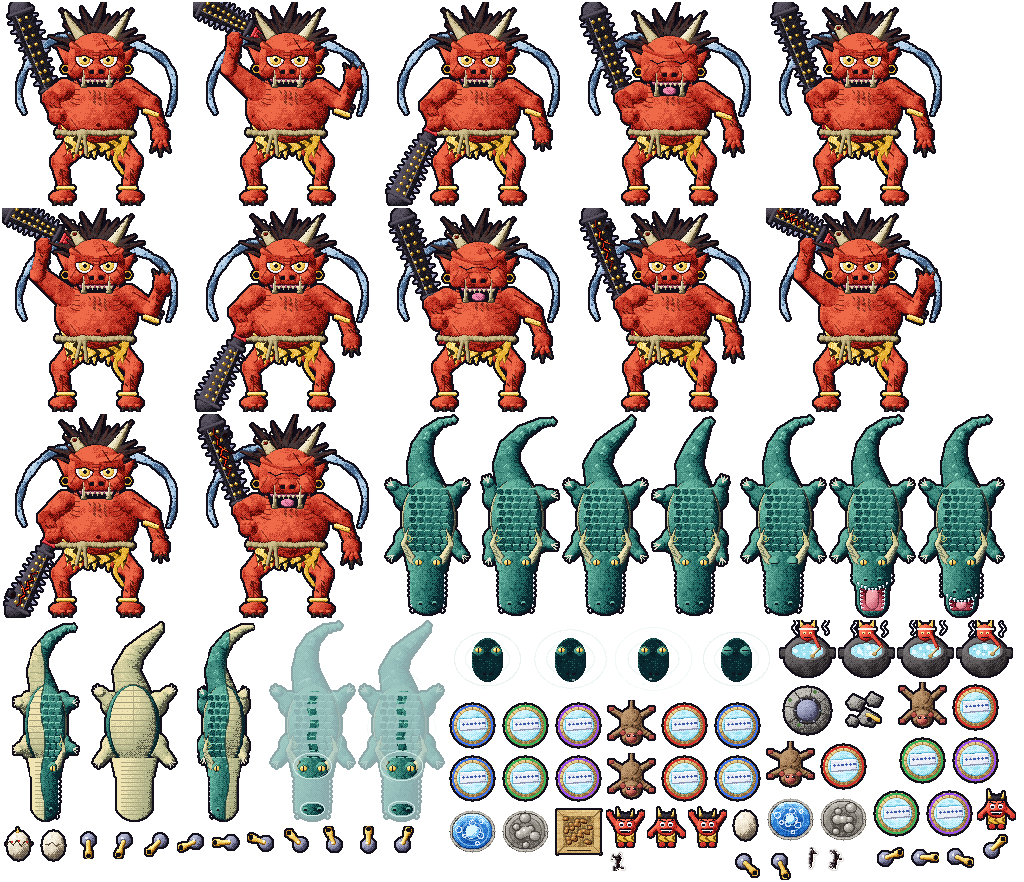
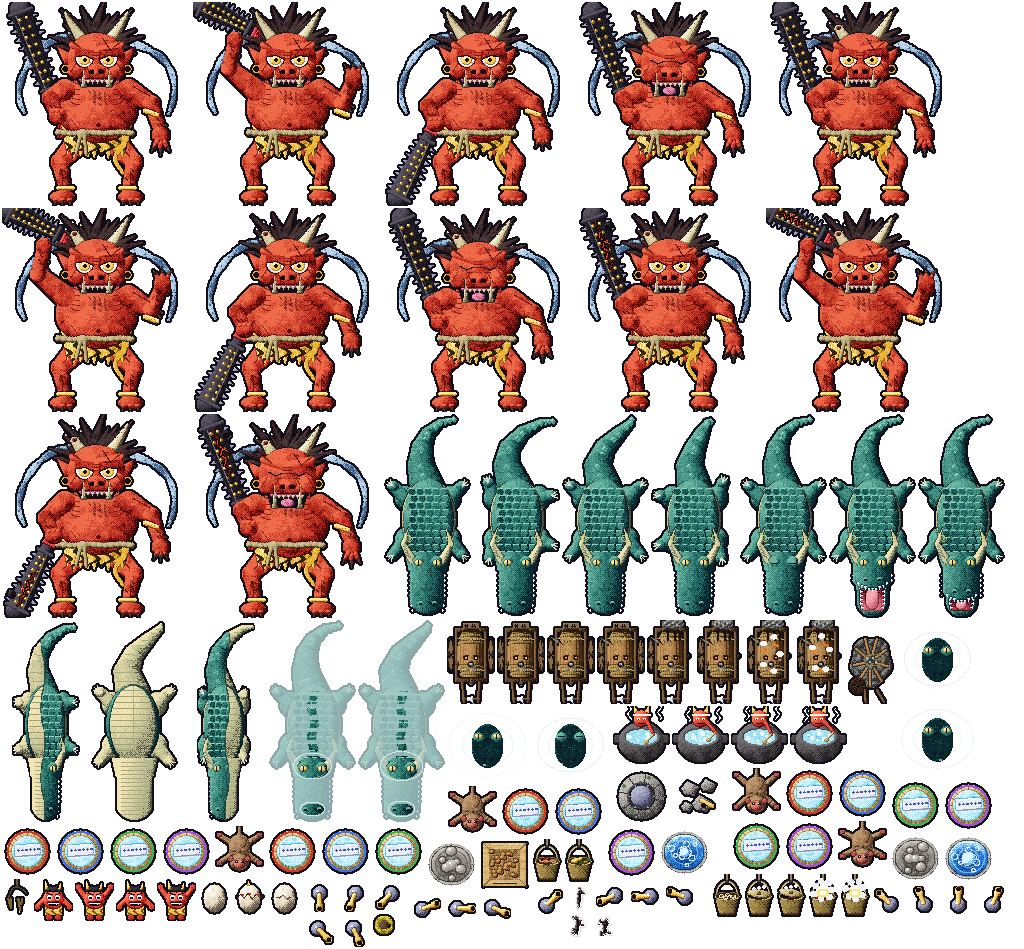
Stronger waves, steps 2-5 for Beppu: into the game, the jigoku-mushi baskets and the hot-mud barrel cart (accepted), the mud's slick as art only (behind the cart on its frames, a pool by its wreck). The designs in Beppu's atlas, its skin (a hemp rope, prawns, corn and pudding in turn; a pale light a

diff --git a/src/game/enemies/chainSplitCart.js b/src/game/enemies/chainSplitCart.js
@@ -12,7 +12,8 @@
 // Their looks are a skin's `chain`, `split` and `cart` (skins.js); their tuning CHAIN, SPLIT, CART (config.js). A look may
 // change the colours and sounds: chain { rope, char, light, text }, split { sound }, cart { debris, light }; a rope may
 // hang several things in turn (chain.frames, as Nagasaki's signal flags) and carry its fire further, to a line hung
-// close by (chain.cross: Kagoshima's ash). A cart's look may have a beast pulling it that is no yokai (cart.runner):
+// close by (chain.cross: Kagoshima's ash), and hang high, over the city's steam drifting up past them (chain.high:
+// Beppu's baskets over the vents). A cart's look may have a beast pulling it that is no yokai (cart.runner):
 // when the cart goes down it breaks free and runs off. A cart may drive faster (cart.speed) and swing round a corner
 // into a cross street (the wave's turn: Osaka's danjiri, yarimawashi).
 import { CART, CHAIN, DEPTH, SPLIT, SPLIT_ONE, VIEW } from '../../config.js';
@@ -49,6 +50,9 @@ export function ropeAt(rope, t) {
 const ROPE = 0x2a1c14; // the hemp rope
 const CHAR = 0x120c0a; // and where it burnt
 
+// (a rope hung high: over the strip's live steam and smoke, Props at DEPTH.mid + 0.5 + up to 1.1; under pick-ups)
+const HIGH = DEPTH.ground + 0.7;
+
 export const chainSplitCart = {
   // ---------------------------------------------------------------- chain
   /** w: { x, x2, n, skew }: a rope from x to x2 (by default the mirror of x), its far end `skew` px up the map. */
@@ -66,7 +70,7 @@ export const chainSplitCart = {
       const [x, u] = ropeAt(rope, (i + 1) / (n + 1));
       const eye = i % 3 === 1;
       const e = this.pool.spawn(eye ? `${look.eye}0` : look.frames?.[i % look.frames.length] ?? look.frame, x, s.parallax.screenY(u), { ...base, u, rope, slot: i, eye, wreck: look.burnt, timer: CHAIN.every * (0.4 + Math.random() * 0.8) });
-      e.setDepth(DEPTH.ground);
+      e.setDepth(look.high ? HIGH : DEPTH.ground);
       first ??= e;
     }
     return first;
@@ -121,7 +125,7 @@ export const chainSplitCart = {
   updateRopes() {
     const s = this.scene;
     if (!this.ropes?.length) return this.ropeG?.clear();
-    this.ropeG ??= s.add.graphics().setDepth(DEPTH.ground - 0.01);
+    this.ropeG ??= s.add.graphics().setDepth((this.ropes[0].look?.high ? HIGH : DEPTH.ground) - 0.01);
     const g = this.ropeG.clear();
     const R = 1 / 3; // (a fine pixel: the rope is a third of a pixel thick at 540 px)
     this.ropes = this.ropes.filter((r) => s.parallax.screenY(r.u + Math.min(0, r.skew)) - r.sag < s.H + 30);

diff --git a/src/game/enemyArt.js b/src/game/enemyArt.js
@@ -153,7 +153,7 @@ export const CITY_ANIMS = {
   ng_manju: [four('ng_manju'), 4], ng_manju_one: [['ng_manju_one_0', 'ng_manju_one_1'], 6],
   k_iga: [four('k_iga'), 4], k_iga_one: [['k_iga_one_0', 'k_iga_one_1'], 6],
   sp_jaga: [four('sp_jaga'), 4], sp_jaga_one: [['sp_jaga_one_0', 'sp_jaga_one_1'], 6],
-  ...Object.fromEntries([0, 1, 2, 3].flatMap((st) => [[`o_ferry_${st}`, [[`o_ferry_${st}_0`, `o_ferry_${st}_1`], 4]], [`ky_hoko_${st}`, [[`ky_hoko_${st}_0`, `ky_hoko_${st}_1`], 6]], [`ok_gyu_${st}`, [[`ok_gyu_${st}_0`, `ok_gyu_${st}_1`], 3]], [`ng_kujira_${st}`, [[`ng_kujira_${st}_0`, `ng_kujira_${st}_1`], 5]], [`k_hakucho_${st}`, [[`k_hakucho_${st}_0`, `k_hakucho_${st}_1`], 4]], [`kg_imo_${st}`, [[`kg_imo_${st}_0`, `kg_imo_${st}_1`], 4]], [`os_danjiri_${st}`, [[`os_danjiri_${st}_0`, `os_danjiri_${st}_1`], 5]]])),
+  ...Object.fromEntries([0, 1, 2, 3].flatMap((st) => [[`o_ferry_${st}`, [[`o_ferry_${st}_0`, `o_ferry_${st}_1`], 4]], [`ky_hoko_${st}`, [[`ky_hoko_${st}_0`, `ky_hoko_${st}_1`], 6]], [`ok_gyu_${st}`, [[`ok_gyu_${st}_0`, `ok_gyu_${st}_1`], 3]], [`ng_kujira_${st}`, [[`ng_kujira_${st}_0`, `ng_kujira_${st}_1`], 5]], [`k_hakucho_${st}`, [[`k_hakucho_${st}_0`, `k_hakucho_${st}_1`], 4]], [`kg_imo_${st}`, [[`kg_imo_${st}_0`, `kg_imo_${st}_1`], 4]], [`os_danjiri_${st}`, [[`os_danjiri_${st}_0`, `os_danjiri_${st}_1`], 5]], [`bp_doro_${st}`, [[`bp_doro_${st}_0`, `bp_doro_${st}_1`], 4]]])),
   // Fukuoka
   f_tobiume: [four('f_tobiume'), 12], f_goma: [four('f_goma'), 16], f_fugu: [four('f_fugu'), 3],
   f_mentaiko: [four('f_mentaiko'), 5], f_mentaiko_one: [['f_mentaiko_one_0', 'f_mentaiko_one_1'], 6],

diff --git a/src/game/skins.js b/src/game/skins.js
@@ -107,6 +107,8 @@ export const SKINS = {
     geyser: { frame: 'boil_0', anim: 'boil', mud: 'mudboil_0', mudAnim: 'mudboil' },
     ambush: ambush('beppu', 'steam'), // a mud bozu in a boiling pool (enemies/ambush.js)
     steam: { frame: 'steamf_0' },
+    chain: { frame: 'bp_kago_0', frames: ['bp_kago_0', 'bp_kago_1', 'bp_kago_2'], eye: 'bp_kago_eye_', lit: 'bp_kago_lit_', burnt: 'bp_kago_burnt', pole: 'bp_post', high: true, rope: 0x9a8458, char: 0x3a3426, light: 0xe8f4ff, text: 0xd8f0ff }, // jigoku-mushi baskets over Kannawa's vents, bursting in steam (enemies/chainSplitCart.js); no pair: the eggs hatch
+    cart: { anim: 'bp_doro_', wreck: 'bp_doro_wreck', debris: 0x7a7a76, light: 0xff8a30 }, // a hand cart with a barrel of hot mud from the mud baths, across a street of the town
   },
   // Tokyo (docs/plan-tokyo.md): the longest city, its enemies in five sets, one per stretch of the flight (the
   // stage file's "sets"), drawn at 540 px (tools/art/tokyo/enemies.mjs). bits: what each set breaks into.

diff --git a/src/game/Enemies.js b/src/game/Enemies.js
@@ -294,7 +294,7 @@ export class Enemies {
         return;
     }
     if (look?.scale) e.setScale((e.base *= look.scale));
-    e.setDepth(e.ground ? DEPTH.ground : DEPTH.air + (w.type === 'heavy' ? -0.1 : 0));
+    if (!(w.type === 'chain' && look?.high)) e.setDepth(e.ground ? DEPTH.ground : DEPTH.air + (w.type === 'heavy' ? -0.1 : 0)); // (a rope hung high keeps its own: chainSplitCart.js)
     if (w.type === 'steam') e.setDepth(DEPTH.player - 0.2); // over enemies and shots, under the ship and bullets
     if (this.skin.duos && w.duo) {
       e.duo = w.duo;

diff --git a/docs/plan-silniejsze-fale.md b/docs/plan-silniejsze-fale.md
@@ -177,3 +177,4 @@ Bot nie zestrzeliwuje ich częściej, tylko odlatują z mniejszym zapasem: walki
 | 2026-11-20 | Claude | 1 (Osaka) | Projekty grafiki do akceptacji, `tools/art/osaka/newfoes.mjs`. Zamiast wachlarzy uchiwa (nurkujący wróg Tokio już jest wachlarzem uchiwa) sznur z talizmanami kitchō z Tōka Ebisu w Imamiya Ebisu tuż przy Shinsekai: na słomianej linie z gałązkami bambusowej trawy (fukuzasa) na zmianę czerwony karp morski (tai), złoty koban i bela ryżu z czerwono-białą metką; budzi się tai (oko się toczy, rozdziawia pysk: te strzelają); jeden zajmuje się ogniem; zostaje zwęglony sznurek z gałązką; słup: ścięty bambus z kępą liści. Danjiri według planu: rzeźbiony drewniany wóz pędzący sam ulicą, wielki wygięty dach z zieloną miedzią, na nim tańczący cieśla z wachlarzem w każdej ręce, czerwone lampiony pod okapem, łukowy szczyt z przodu, rzeźbiony front z płonącymi oczami, długie liny wloką się przed nim; rozpad: odpadają rzeźby (świeci na czerwono), zerwany dach (w środku bęben i gong) i brak koła, ogień; wrak w poprzek ulicy. Bez pary (D4). Ani w atlasie, ani w grze. | Do decyzji: kitchō zamiast uchiwa. Danjiri to trzeci wóz festiwalowy (po hoko z Kioto i wielorybie z Nagasaki), choć wygląda inaczej. Skręt na skrzyżowaniu jak w Kishiwadzie (yarimawashi) wymaga małej zmiany kodu wozu (dziś jedzie tylko prosto): do decyzji. |
 | 2026-11-20 | Claude | 2-5 (Osaka) | Przyjęte: kitchō zamiast uchiwa, danjiri ze skrętem. Grafika w atlasie `bg/stage5`, skórka (słomiana lina; koban, budzący się tai i bela ryżu na zmianę; danjiri szybszy od innych wozów: `cart.speed` 20 zamiast 14). Skręt wozu (wspólny kod, `CART.swing`): fala z `turn: [u, kierunek]` jedzie w dół ulicy i na przecznicy u zarzuca się o ćwierć obrotu (z przechyłem za kąt prosty i z powrotem, kurz i iskry spod kół), w zakręcie wyrzuca 4 garście po 3 pociski na zewnątrz łuku, potem jedzie przecznicą w bok; wrak zestrzelonego w zakręcie leży tak, jak wóz stał. Danjiri w 74 s ulicą x 150 w Umedzie, skręt w lewo w przecznicę u 2600 (przez Midōsuji). 3 sznury kitchō nad alejami Shinsekai (88,7 s nad x 90, 93,5 s nad x 150, 99,5 s nad x 90; słupy między ulicami, z dala od Tsūtenkaku). Zamiast 3 fal popcornu (74, 87/87,5, 97/98,5 s). Bez pary (D4: duety manzai). Popcorn 67% → 61%. Bot (4 bronie, moc 4), trafienia przed bossem na przelot: normalny 9,0 → 7,8, łatwy 9,3 → 6,8 (w granicach rozrzutu); sznury i danjiri zestrzelone zawsze, danjiri po 4-8 s (zawsze już po skręcie). Test: osakaWaves. | Jak w Kagoshimie: bez pary do 45% nie zejdzie. |
 | 2026-11-20 | Claude | 1 (Beppu) | Projekty grafiki do akceptacji, `tools/art/beppu/newfoes.mjs`. Sznur: bambusowe kosze jigoku-mushi na konopnej linie nad wylotami pary w Kannawie (na arkuszu nad kuchnią parową przy x 104, u 2472), na zmianę krewetki z przegrzebkiem, kukurydza z klinem dyni i miseczki puddingu jigoku-mushi purin; budzi się kosz, któremu unosi się pleciona pokrywka, a spod niej łypią dwa żarzące się oczy (te strzelają); trafiony wybucha kłębem parzącej pary, który przechodzi na sąsiedni; zostaje pałąk z kilkoma złamanymi listewkami; słup: ogorzały cedrowy pal z żelaznym kółkiem, siarka u stóp. Bez jajek w koszach (popcorn Beppu to jajko). Wóz: daihachi-guruma, duży dwukołowy wózek ręczny bez nikogo między dyszlami, wiozący beczkę gorącego błota z łaźni błotnych: beczka leży na boku wzdłuż wózka, bambusowe obręcze, przywiązana słomianym sznurem, dwa sęki łypią, szpunt rozdziawiony, szare błoto cieknie po bokach; czerpak, ręcznik na poprzeczce, deska łaźni z tyłu. Rozpad: pęka obręcz i z klepki tryska błoto (oczy czerwone), odpada koło, klepki pękają i błoto wylewa się za nim, błoto kipi w kłębach pary, szczeliny się żarzą; wrak: rozsadzona beczka, klepki rozłożone wokół kałuży błota, koło na płask. Na arkuszu w poprzek ulicy u 1560 w centrum, wjeżdża z boku ekranu. Bez pary (D4). Ani w atlasie, ani w grze. | Beczka leży, bo stojąca z góry byłaby cebrzykiem oke (nosiciel Beppu). Do decyzji: plama błota z planu tylko jako grafika (ślad za wozem, kałuża przy wraku), czy jako przeszkoda w grze (nowa mechanika). |
+| 2026-11-20 | Claude | 2-5 (Beppu) | Przyjęte według rekomendacji: kosze jigoku-mushi i beczkowóz z błotem; plama błota tylko jako grafika (ślad za wozem na jego klatkach, kałuża przy wraku). Grafika w atlasie `bg/stage6`, skórka (konopna lina, krewetki, kukurydza i puddingi na zmianę; jasne światło i napisy pary zamiast ognia). Nowa opcja wyglądu sznura `chain.high` (wspólny kod): kosze i lina wiszą nad parą z mapy (warstwa nad ruchomymi pióropuszami, pod bonusami), inaczej pióropusze Kannawy je zasłaniały; słupy zostają przy ziemi. 2 liny koszy w Kannawie: 67,9 s nad kamiennymi skrzyniami kuchni parowej (x 98–154), 70,9 s w poprzek starej uliczki Ideyu-zaka (x 40–104). Beczkowóz w 41,7 s poprzeczną ulicą u 1560 w centrum, od zachodu, przez Ekimae-dōri; znika z ekranu przed bramą zadaszonej arkady. Zamiast 3 fal popcornu (41/42,5, 64/64,5, 74,5/76 s); wieżyczki i gejzery bez zmian, więc mapa (która się do nich dopasowuje) też. Bez pary (D4). Popcorn 63% → 56%. Bot (4 bronie, moc 4), trafienia przed bossem na przelot: normalny 7,5 → 7,3, łatwy 5,8 → 5,3 (w granicach rozrzutu); kosze i wóz zestrzelone zawsze, wóz po 3-7 s. Test: beppuWaves. | |
